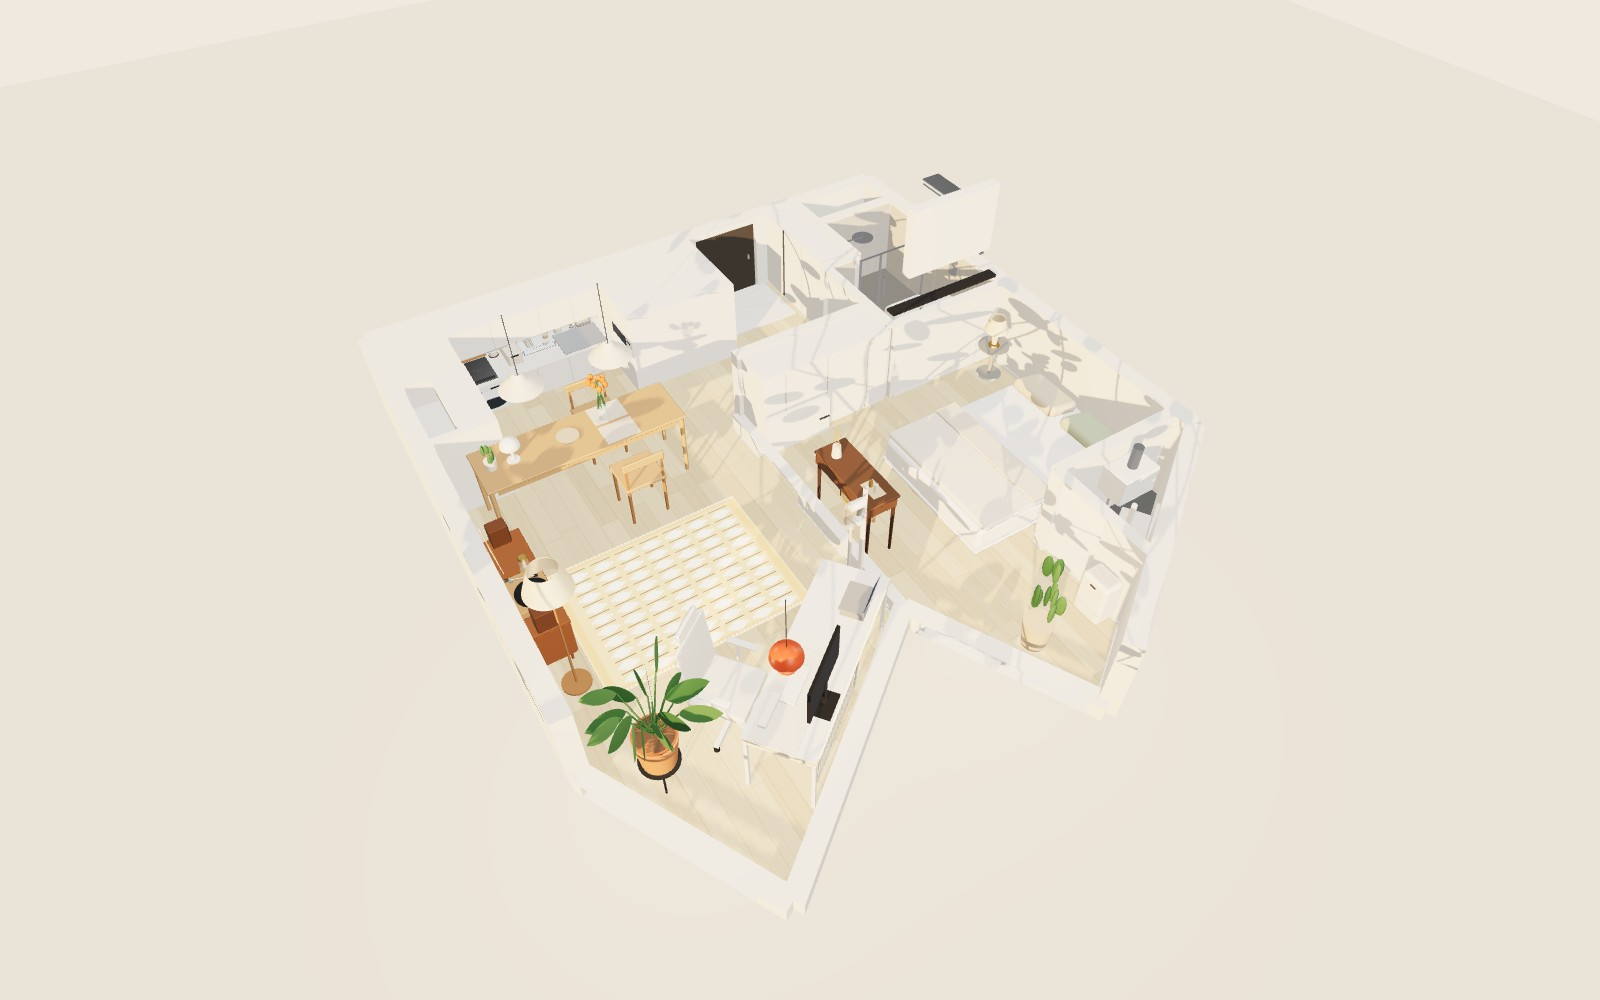
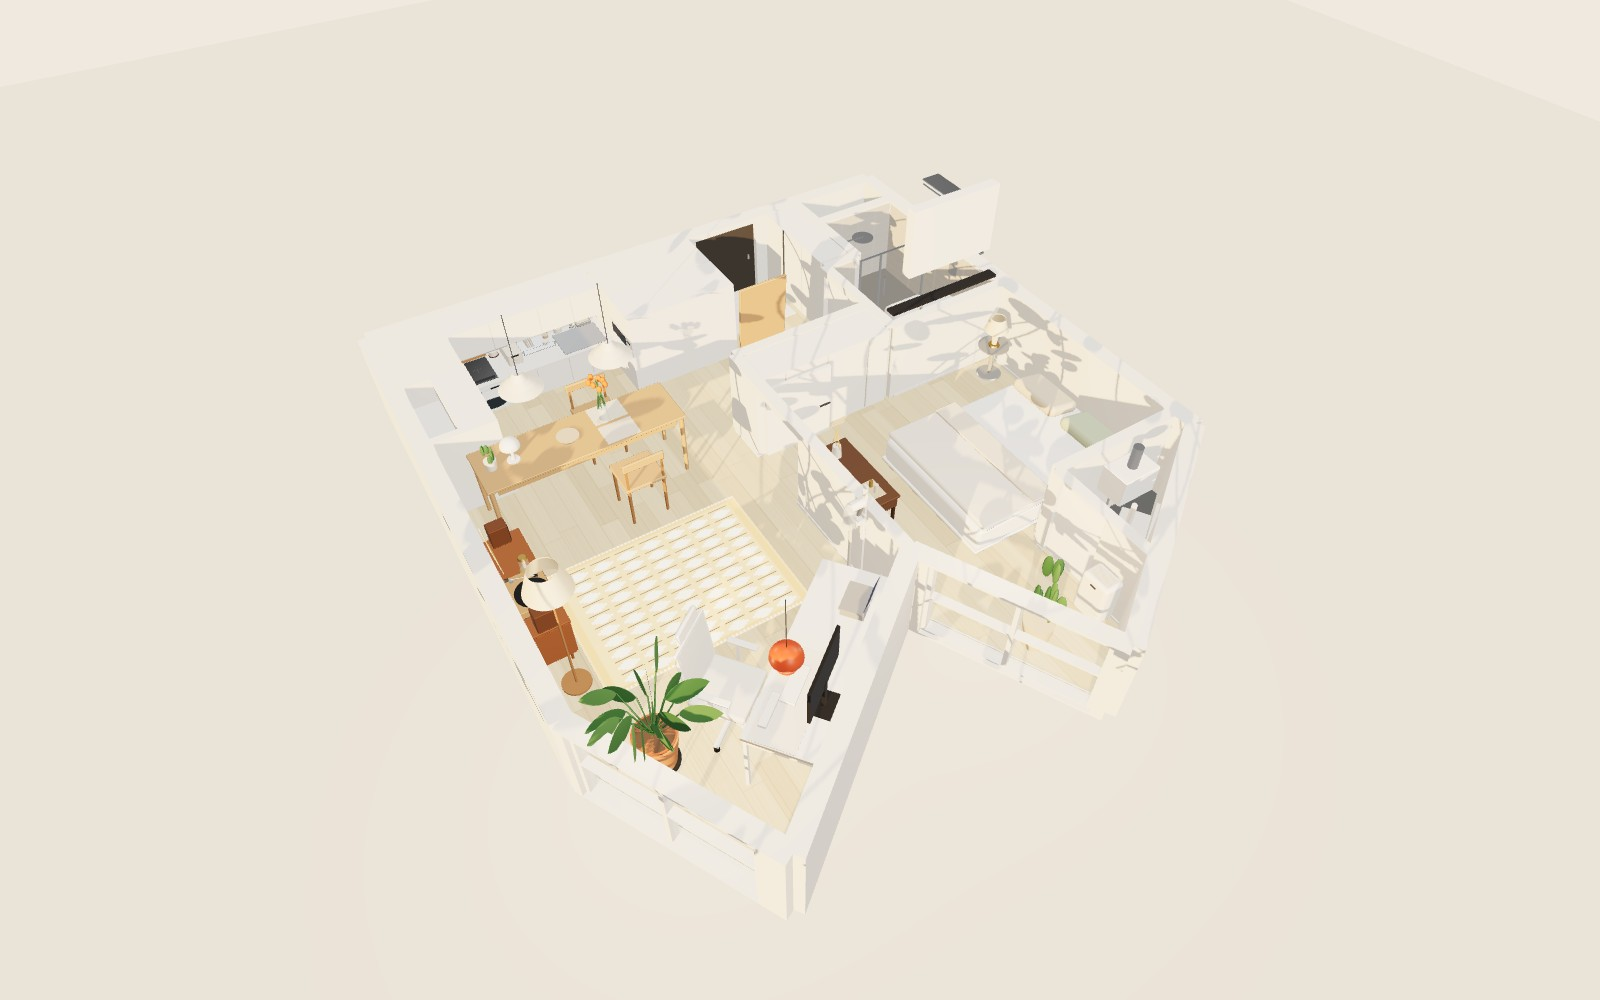
Auto wall lowering becomes an opt-in toggle (off by default)

diff --git a/index.html b/index.html
@@ -69,6 +69,7 @@
     <button id="day" class="on">낮</button>
     <button id="night">밤</button>
     <button id="walls">벽 낮추기</button>
+    <button id="cutbtn">벽 자동 낮추기</button>
     <button id="labels">이름표</button>
     <button id="prodbtn">상품 링크</button>
     <button id="prodlist">상품 목록 ↗</button>
@@ -112,7 +113,7 @@
   · 주방: 흰 하부장·쿼츠 상판·대리석풍 벽타일, 인덕션 아래 <b>드럼세탁기 빌트인</b><br>· 현관 대리석 타일, 흰 걸레받이·몰딩, 천장 환기장치, 보일러실(루버창)<br>· (블로그 실사진 36형 기준)
 </div>
 <div id="note" class="panel">
-  드래그 = 둘러보기 · 휠·두 손가락·＋－ = 확대 (마우스 있는 곳으로) · 오른쪽 드래그·Shift+드래그·✋이동 = 이동<br>더블클릭(더블탭) = 그곳으로 다가가기 · WASD/방향키 = 걷기 · 밖에서 옆으로 보면 앞쪽 벽이 자동으로 낮아져요<br><b>👤 1인칭</b>: 구역 버튼으로 그 자리에 서서(눈높이 160) 드래그로 둘러보기 · 휠/WASD = 걷기 · 더블클릭 = 그 자리로 걸어가기<br>
+  드래그 = 둘러보기 · 휠·두 손가락·＋－ = 확대 (마우스 있는 곳으로) · 오른쪽 드래그·Shift+드래그·✋이동 = 이동<br>더블클릭(더블탭) = 그곳으로 다가가기 · WASD/방향키 = 걷기 · '벽 자동 낮추기'를 켜면 밖에서 옆으로 볼 때 앞쪽 벽이 낮아져요<br><b>👤 1인칭</b>: 구역 버튼으로 그 자리에 서서(눈높이 160) 드래그로 둘러보기 · 휠/WASD = 걷기 · 더블클릭 = 그 자리로 걸어가기<br>
   치수는 분양 평면도(36.75㎡) 비율로 추정한 값이라 ±10cm 오차가 있을 수 있어요. 가구 사기 전 실측 필요.
 </div>
 <button id="hide">설명 숨기기</button>
@@ -1228,12 +1229,12 @@ function segHit(p, q, a, b) {
   const t = ((a[0] - p[0]) * (b[1] - a[1]) - (a[1] - p[1]) * (b[0] - a[0])) / d, u = ((a[0] - p[0]) * (q[1] - p[1]) - (a[1] - p[1]) * (q[0] - p[0])) / d;
   return t > 0 && t < 1 && u > -0.03 && u < 1.03;
 }
-let lastCut = 0;
+let lastCut = 0, cutOn = false; // 벽 자동 낮추기: 옵션 (기본 꺼짐)
 function cutaway(instant = false, now = performance.now()) {
   const dt = instant ? 1 : Math.min(0.1, (now - (lastCut || now)) / 1000); lastCut = now; const k = instant ? 1 : Math.min(1, dt * 9);
   const cx = camera.position.x * 100, cy = camera.position.z * 100, tx = controls.target.x * 100, ty = controls.target.z * 100;
   const inside = pip(OUTLINE, cx, cy) && camera.position.y < cm(H);
-  const active = !inside && controls.getPolarAngle() > 0.5; // 밖에서 옆으로 볼 때만
+  const active = cutOn && !inside && controls.getPolarAngle() > 0.5; // 옵션 켰을 때 밖에서 옆으로 볼 때만
   const L = Math.hypot(tx - cx, ty - cy) || 1, nx = -(ty - cy) / L, ny = (tx - cx) / L;
   const ends = [0, -90, 90, -180, 180].map((o) => [tx + nx * o, ty + ny * o]);
   const lowered = [];
@@ -1244,7 +1245,7 @@ function cutaway(instant = false, now = performance.now()) {
   const near = (o, d) => { const x = o.position.x * 100, y = o.position.z * 100; return lowered.some((w) => segDist(x, y, w.a, w.b) < d); };
   for (const g of tall) { const want = (low ? 0.42 : 1) * (near(g, 75) ? (low ? 0.55 : 0.4) : 1); g.scale.y += (want - g.scale.y) * k; }
   for (const o of wallDecor) o.visible = !near(o, 45) && !(low && o.userData.wallMounted); // 벽 낮추기 땐 벽걸이 숨김
-  ceils.forEach((c) => (c.visible = !low && inside)); curtains.forEach((c) => (c.visible = !low && inside));
+  ceils.forEach((c) => (c.visible = !low && (!cutOn || inside))); curtains.forEach((c) => (c.visible = !low && (!cutOn || inside)));
 }
 function clampTarget() {
   const t = controls.target, c = camera.position;
@@ -1263,6 +1264,7 @@ function setPanMode(on) {
   panMode = on; controls.mouseButtons.LEFT = on ? THREE.MOUSE.PAN : THREE.MOUSE.ROTATE; controls.touches.ONE = on ? THREE.TOUCH.PAN : THREE.TOUCH.ROTATE;
   document.getElementById("panmode").classList.toggle("on", on);
 }
+document.getElementById("cutbtn").onclick = (e) => { cutOn = !cutOn; e.target.classList.toggle("on", cutOn); };
 document.getElementById("zin").onclick = () => zoomStep(0.65);
 document.getElementById("zout").onclick = () => zoomStep(1.5);
 document.getElementById("panmode").onclick = () => setPanMode(!panMode);
